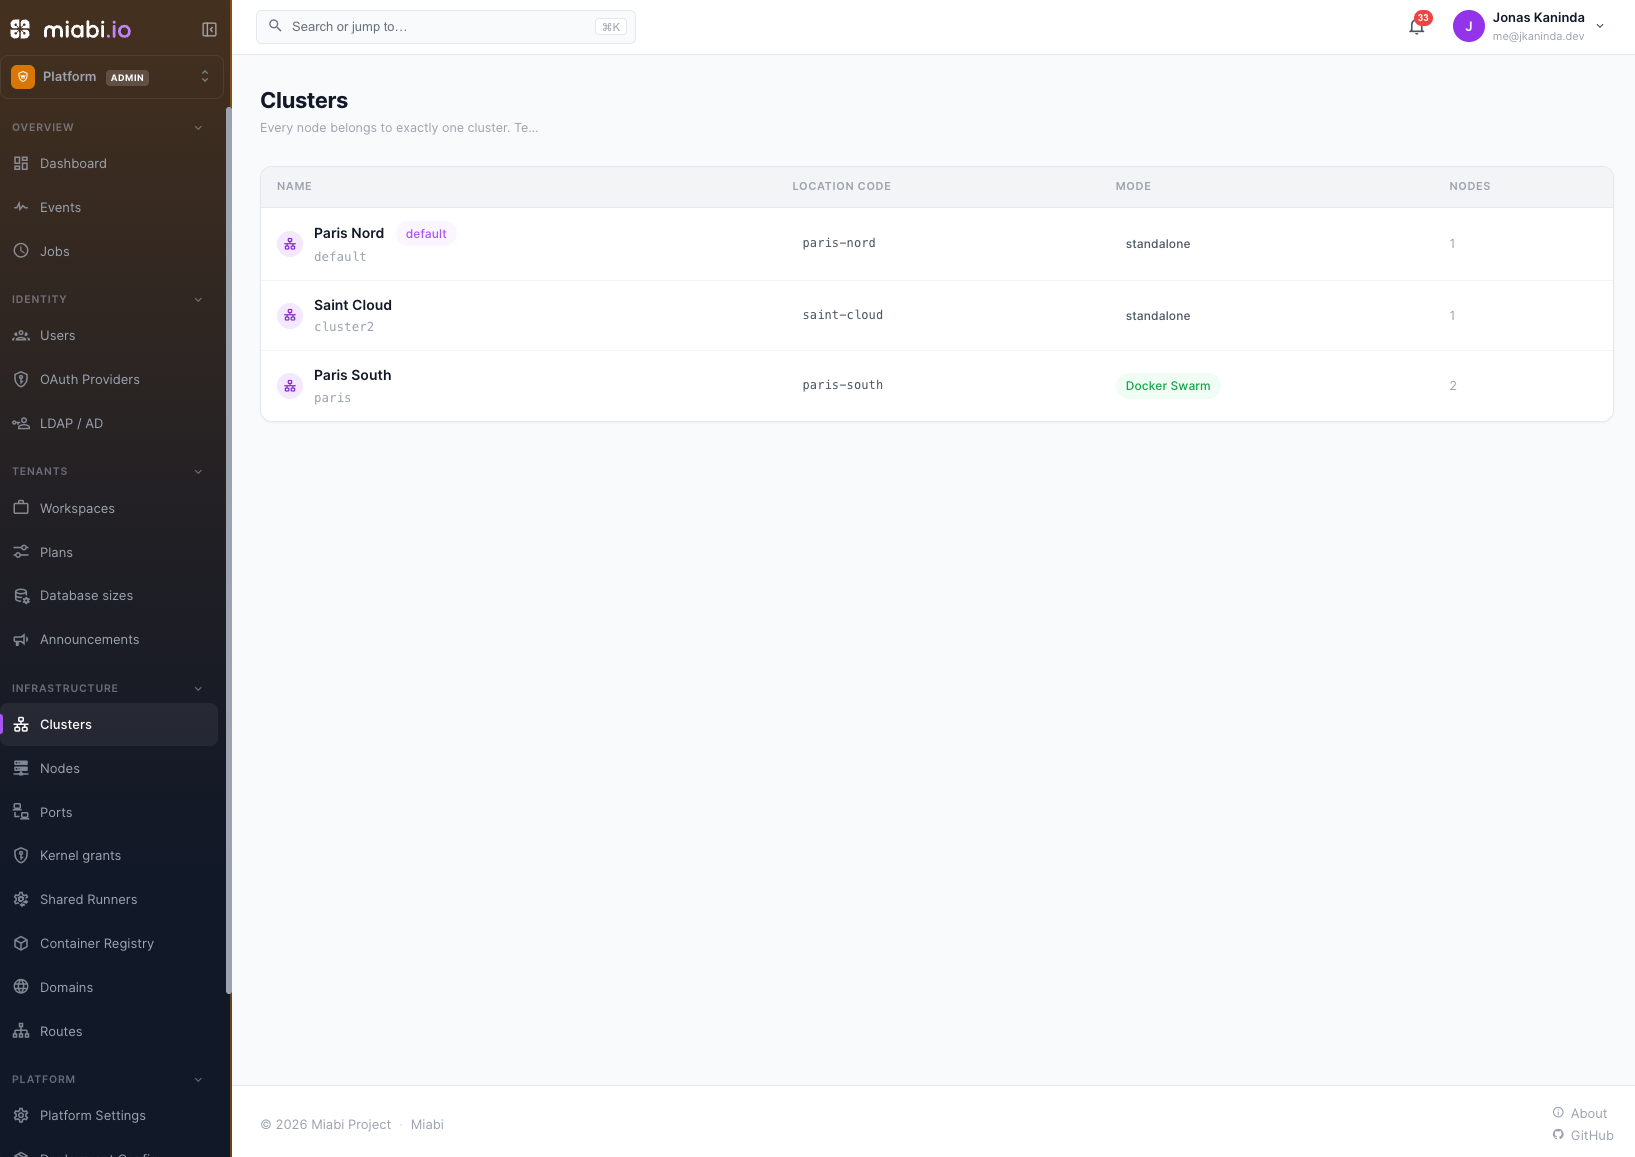
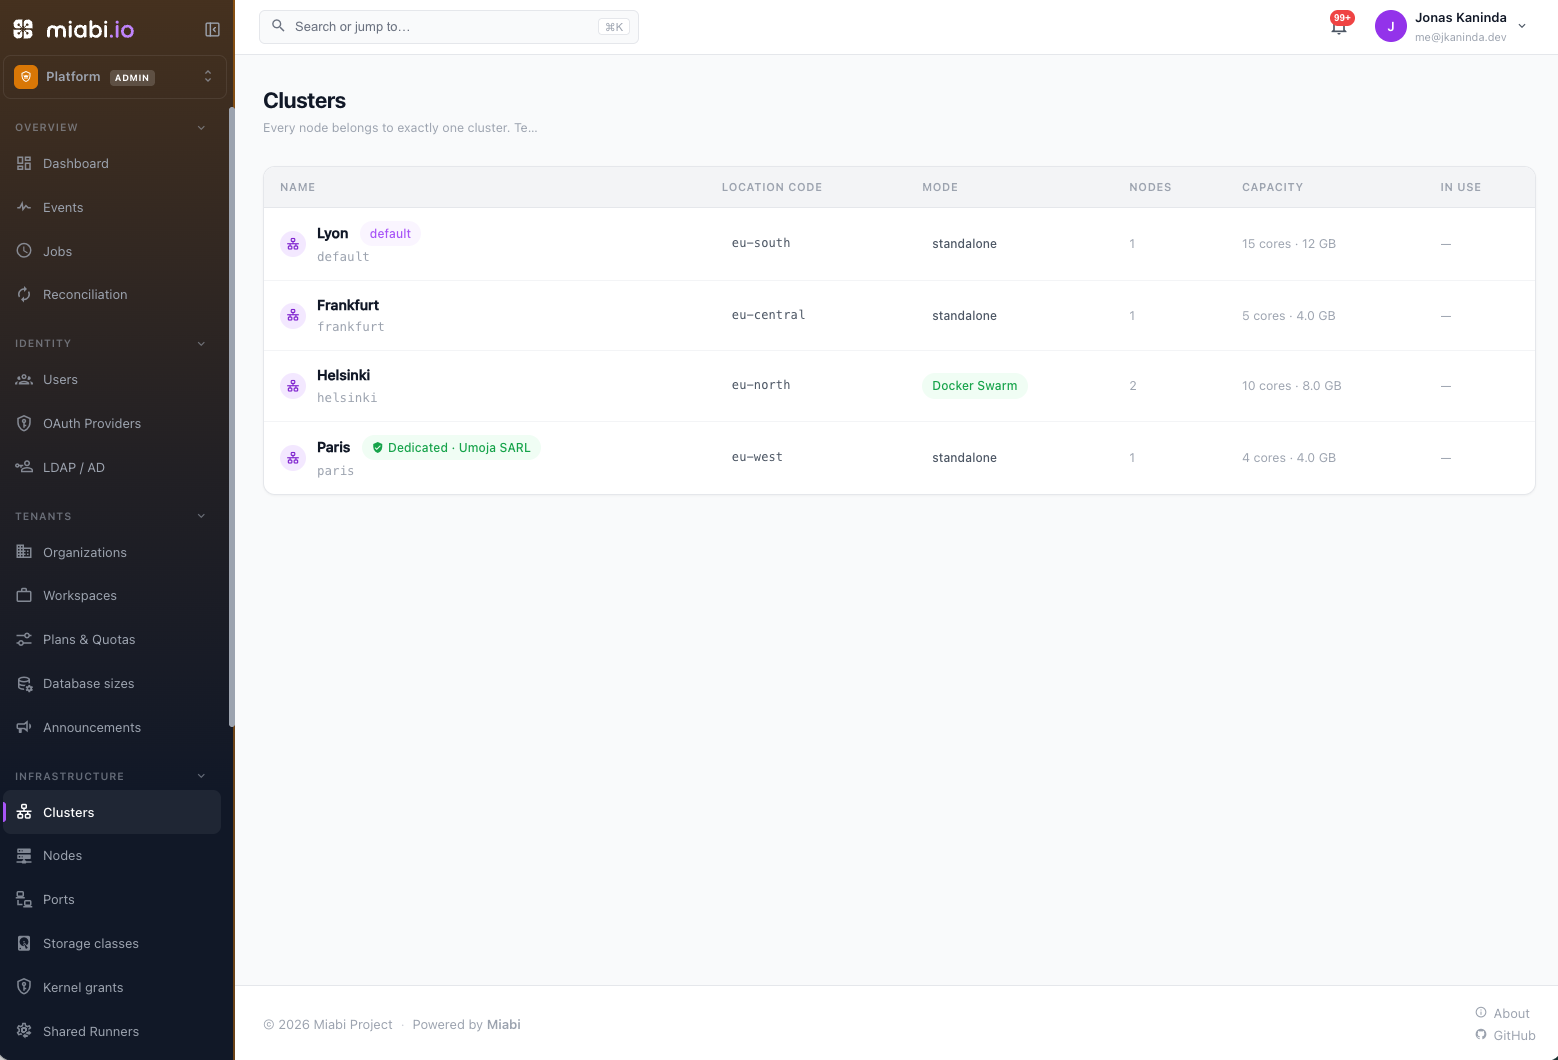
document organization, storage classes  and update screenshot images

diff --git a/docs/workspaces/organizations.md b/docs/workspaces/organizations.md
@@ -1,54 +1,170 @@
 ---
 sidebar_position: 3
 title: Organizations
-description: The single built-in organization — Miabi's identity realm for SSO, SAML, and SCIM.
+description: Tenant realms that own workspaces, users and locations — with an owner, a workspace cap, and their own SSO.
 ---
 
 # Organizations
 
-:::info Not a multi-workspace grouping feature — yet
-Miabi seeds **one built-in `default` organization** that every workspace belongs to. You cannot
-create organizations, and you cannot group workspaces under separate ones. The only organization
-endpoints are `GET` and `PUT /api/v1/admin/organization` (platform admin), which read the default
-organization and toggle its enforced-SSO policy.
+An organization is a **tenant realm**. It owns workspaces, the user accounts that belong to them,
+and — on Enterprise — the locations their workloads run on. Where a workspace is the isolation
+boundary for one project's apps and data, an organization is the boundary for a *customer*: the
+people, their workspaces, their hardware, and the identity provider they sign in through.
+
+Every install has one. Community keeps the single built-in `default` organization it has always
+had, and every workspace and user belongs to it. **Creating a second organization is an
+[Enterprise](/docs/editions/community-vs-enterprise) feature** — it is the point at which one Miabi
+instance starts serving more than one customer.
+
+![The organizations list](/img/screenshots/admin-organizations.png)
+
+## When you need one
+
+You do not need organizations to separate projects, environments, or teams — use
+[workspaces](/docs/workspaces/overview), which already isolate data, secrets, networking and
+members. Reach for an organization when the tenants are **different customers**, and one of these
+is true:
+
+- They sign in through **their own SSO provider**, and accounts from it must never land in someone
+  else's realm.
+- They are capped: this customer may create **at most five workspaces**.
+- They run on **their own nodes** — hardware nobody else shares.
+- Someone is **accountable** for them, and you want that recorded rather than remembered.
+
+## Creating one
+
+**Platform admin → Tenants → Organizations → New organization.**
+
+| Field | Meaning |
+|---|---|
+| **Display name** | The label shown throughout the console. Free text, editable at any time. |
+| **Handle** | The URL-safe identifier, e.g. `acme`. Derived from the display name if you leave it blank, lowercase letters, digits and hyphens. |
+| **Owner** | The user accountable for the organization. Optional here — see [Ownership](#ownership). |
+| **Workspace cap** | How many workspaces the organization may hold. Unlimited by default; `0` allows none. |
+
+The handle is **immutable** after creation: it is what admins and the API address the organization
+by. Rename the display name instead.
+
+![An organization's detail page](/img/screenshots/admin-organization-detail.png)
+
+## Ownership
+
+Every organization has an **owner** — the user accountable for it. The owner is recorded on the
+organization, shown on its detail page, and set in one of three ways:
+
+1. **Named when you create it.** An admin picks the owner in the New organization form, or later in
+   **Settings**. This is the explicit case, and it always wins.
+2. **Adopted by the first user.** An organization created without an owner takes the first user who
+   joins it — including one provisioned by SSO. This fills a gap so that a realm is never
+   accountable to nobody; it never overrides an owner an admin named, and once taken it does not
+   move when a second user arrives.
+3. **The default organization takes the first platform admin.** It is seeded before any user
+   exists, so it cannot take an owner at creation the way a later one can.
+
+:::note
+Deleting a user **releases** the organizations they owned, which then show no owner until an admin
+names one or a new user adopts them. An organization is never left pointing at an account that no
+longer exists.
 :::
 
-Today an organization is an **identity realm**, not a folder. It owns the account-wide identity
-configuration:
+Ownership here is **accountability, not permission**. It records who answers for the tenant; it
+grants nothing on its own. What a person may do is still decided by their
+[platform-admin status and per-workspace role](/docs/workspaces/roles-and-permissions).
 
-- **SSO / OAuth 2.0 / OIDC** providers — see [SSO](/docs/security/sso).
-- **SAML 2.0** providers and the **enforced-SSO** policy (Enterprise).
-- **LDAP / Active Directory** sign-in (Enterprise).
-- **SCIM 2.0** user provisioning (Enterprise).
+## Signing in: attaching an SSO provider
 
-Workspaces carry a nullable organization reference so that multi-organization support can arrive
-later without a destructive migration. Until it does, use **workspaces** to model environments,
-teams, and clients — each keeps its strict
-[multi-tenant isolation](/docs/workspaces/overview#multi-tenant-isolation).
+An [OAuth 2.0 / OIDC provider](/docs/security/sso) can be attached to an organization. Every account
+**registered through that provider** then belongs to it, with no per-user step: the customer's
+people sign in with the customer's identity provider and land in the customer's realm.
 
-![The organizations view listing member workspaces](/img/screenshots/organizations.png)
+![The organization field on an SSO provider](/img/screenshots/admin-oauth-provider-organization.png)
+
+Two rules make this safe to rely on:
+
+- **Only registration decides a realm.** Signing in through a provider never moves an account that
+  already exists. Somebody who already belongs to one organization stays there, whichever provider
+  they authenticate with.
+- **A provider's organization is set once**, when the provider is created. Because existing accounts
+  are never moved, changing it later would only split that provider's users across two realms — so
+  the field is read-only afterwards.
+
+A provider with no organization registers into the default one, which is how every install behaved
+before providers could be attached at all.
+
+:::tip
+Pair this with the organization's **enforced-SSO** policy (Enterprise) to require that its people
+sign in through the provider rather than with a local password.
+:::
+
+## Where its workloads run
+
+An organization can be given a **default location** — the [cluster](/docs/nodes/cluster-mode#locations) its new
+workspaces place resources in when they name none.
+
+Beyond that, a cluster can be **dedicated** to an organization. A dedicated location is seen only by
+that organization, and nothing outside it can be placed there — not even by a platform admin. In
+return, an organization that owns any location is **confined** to the ones it owns, so its workloads
+never land on shared hardware.
+
+![Locations dedicated to an organization](/img/screenshots/admin-organization-dedicated-locations.png)
+
+Dedicating a location is done from the location itself: **Platform admin → Infrastructure →
+Clusters → *cluster* → Belongs to → Change**. It is refused while the location still runs another
+organization's workloads — they would keep running somewhere their own workspace could no longer
+see, scale, or place beside. Move or delete them first.
+
+See [Cluster mode](/docs/nodes/cluster-mode#locations) for what a location is, and
+[Plans & Quotas](/docs/workspaces/plans-and-quotas) for how placement policy interacts with plans.
 
 ## Structure
 
 ```
-Organization: default        (identity realm — SSO / SAML / SCIM)
-├── Workspace: production
+Organization: acme            (tenant realm — owner, cap, SSO, locations)
+├── Users                     (registered through Acme's SSO provider)
+├── Workspace: acme-prod
 │   ├── Applications
 │   ├── Databases
 │   └── Members
-├── Workspace: staging
-└── Workspace: client-acme
+└── Workspace: acme-staging
+
+Organization: default         (every install has one)
+└── Workspace: internal-tools
 ```
 
-Members are assigned at the **workspace** level, each with one of the four roles. The organization
-carries identity configuration only; it does not change the per-workspace
-[role enforcement](/docs/workspaces/roles-and-permissions).
+Members are assigned at the **workspace** level, each with one of the four roles. An organization
+groups workspaces and accounts; it does not change the per-workspace
+[role enforcement](/docs/workspaces/roles-and-permissions), and it is not a permission scope.
 
 :::note
-Plans and quotas are applied **per workspace**. See [Plans & Quotas](/docs/workspaces/plans-and-quotas) for how limits and capability gates work.
+Plans and quotas are applied **per workspace**, not per organization. The organization's own limit is
+the workspace cap. See [Plans & Quotas](/docs/workspaces/plans-and-quotas).
 :::
+
+## Deleting one
+
+**Platform admin → Tenants → Organizations → *organization* → Delete.**
+
+An organization must be **empty** first — no workspaces, no users. A delete that still held them is
+refused rather than silently orphaning them: move them to another realm deliberately. Any locations
+dedicated to it are released back to shared, since a location owned by an organization that no
+longer exists would be visible to nobody.
+
+The **default organization cannot be deleted**. If you want a different one to be the fallback that
+new workspaces, users and providers attach to, promote it with **Make default** first.
+
+## Multi-tenant isolation
+
+An organization does not replace [workspace isolation](/docs/workspaces/overview#multi-tenant-isolation)
+— it stacks on top of it. Data, secrets, networks and members are still scoped per workspace and
+enforced by `workspace_id`, whether two workspaces belong to the same organization or not.
+
+What the organization adds is the tenant boundary above that: who the workspaces belong to, which
+identity provider creates their accounts, and — when you dedicate a location — which machines their
+containers are allowed to run on.
 
 ## Next steps
 
 - Manage who belongs to each workspace in [Members & Invitations](/docs/workspaces/members-and-invitations).
 - Review what each role can do in [Roles & Permissions](/docs/workspaces/roles-and-permissions).
+- Attach an identity provider in [SSO](/docs/security/sso).
+- Give a tenant its own hardware in [Cluster mode](/docs/nodes/cluster-mode#locations).

diff --git a/docs/editions/community-vs-enterprise.md b/docs/editions/community-vs-enterprise.md
@@ -36,6 +36,7 @@ If you want a build with **zero enterprise code** (the deny-all stub), build it 
 | Registry S3/MinIO storage | — | ✓ |
 | Volumes on the built-in `default` storage class | ✓ | ✓ |
 | [Storage classes](/docs/storage/storage-classes) — volumes on the disks you mount (bare metal, dedicated hosts) | — | ✓ |
+| [Organizations](/docs/workspaces/organizations) — tenant realms owning workspaces, users, their own SSO and their own locations | the built-in `default` one | ✓ create more |
 | OAuth/OIDC SSO providers | one | multiple |
 | Hide an SSO provider from the login page | — | ✓ |
 | SAML 2.0 + enforced SSO · SCIM 2.0 provisioning | — | ✓ |
@@ -73,7 +74,7 @@ The Community edition includes the entire core platform — deploying apps, cust
 :::
 
 :::note
-Enterprise is about identity, governance, hardware, and scale: multiple and hidden SSO providers with SAML, LDAP and SCIM, custom roles and per-resource policies, the audit log viewer with export and SIEM streaming, quota and per-user limit overrides, advanced multi-cluster placement and database sizes, announcements, platform backup, S3/MinIO storage for the container registry, a private template registry and image mirror, an unlimited shared runner pool, white-label branding, a restricted security profile, and [advanced canary control](/docs/applications/canary-deployments#manual-mode). It is also what puts tenant data on hardware you chose: [storage classes](/docs/storage/storage-classes) for the disks you mount on a bare-metal or dedicated host, and [recovery points](/docs/storage/backups#recovery-points) that back up a whole database instance as one set. A commercial license also comes with [Enterprise support](https://miabi.io/support) — commercial support and SLAs, direct to the maintainers. A license can also set explicit node and plan caps; see [Licensing](/docs/editions/licensing#limits).
+Enterprise is about identity, governance, hardware, and scale: [organizations](/docs/workspaces/organizations) that turn one instance into several tenants, multiple and hidden SSO providers with SAML, LDAP and SCIM, custom roles and per-resource policies, the audit log viewer with export and SIEM streaming, quota and per-user limit overrides, advanced multi-cluster placement and database sizes, announcements, platform backup, S3/MinIO storage for the container registry, a private template registry and image mirror, an unlimited shared runner pool, white-label branding, a restricted security profile, and [advanced canary control](/docs/applications/canary-deployments#manual-mode). It is also what puts tenant data on hardware you chose: [storage classes](/docs/storage/storage-classes) for the disks you mount on a bare-metal or dedicated host, and [recovery points](/docs/storage/backups#recovery-points) that back up a whole database instance as one set. A commercial license also comes with [Enterprise support](https://miabi.io/support) — commercial support and SLAs, direct to the maintainers. A license can also set explicit node and plan caps; see [Licensing](/docs/editions/licensing#limits).
 :::
 
 ## Where to go next

diff --git a/docs/administration/platform-admin.md b/docs/administration/platform-admin.md
@@ -8,7 +8,7 @@ description: Who the platform admin is, the first-user rule, and what they manag
 
 The **platform admin** (super-admin) is the account responsible for the Miabi instance as a whole — the parts of the system that sit *above* any single workspace.
 
-![Platform admin console](/img/screenshots/platform-admin.png)
+![The platform admin dashboard](/img/screenshots/admin-dashboard.png)
 
 ## How the platform admin is created
 
@@ -67,6 +67,7 @@ dashboard. The sidebar is grouped as below, and this table is the map.
 
 | Section | Responsibility |
 |---|---|
+| **Organizations** | Tenant realms owning workspaces, users, their own SSO and their own locations (Enterprise beyond the built-in one). See [Organizations](/docs/workspaces/organizations). |
 | **Workspaces** | Cross-workspace visibility, privileged workspaces, and key rotation. See [Workspace Oversight](/docs/administration/workspace-oversight). |
 | **Plans** | Define what a workspace may consume and which capabilities it unlocks. See [Plans & Quotas](/docs/workspaces/plans-and-quotas). |
 | **Database sizes** | Named CPU and memory sizes plans offer (Enterprise). See [Database sizes](/docs/workspaces/plans-and-quotas#database-sizes). |
@@ -79,9 +80,15 @@ dashboard. The sidebar is grouped as below, and this table is the map.
 | **Clusters** | Standalone and swarm clusters, the locations workspaces deploy to. See [Cluster Mode](/docs/nodes/cluster-mode). |
 | **Nodes** | The fleet: status, health, pools, container inventory, housekeeping and Docker import. See [Nodes & Capacity](/docs/administration/nodes-and-capacity). |
 | **Ports** | Every host port on every node, and the host-port approval queue. See [Workspace Oversight](/docs/administration/workspace-oversight#moderating-host-ports). |
+| **Storage classes** | The disks volumes may be created on, beyond Docker's own data root (Enterprise). See [Storage classes](/docs/storage/storage-classes). |
 | **Kernel grants** | Every application holding an extra Linux capability or host device. See [Capabilities & devices](/docs/applications/capabilities-and-devices). |
 | **Shared Runners** | The platform-shared build machines pipelines execute on. See [Runners](/docs/cicd/runners). |
 | **Container Registry** | The built-in multi-tenant OCI registry. See [Registry administration](/docs/registry/administration). |
+
+### Networking
+
+| Section | Responsibility |
+|---|---|
 | **Domains** | Verify, force-verify or ban a domain in any workspace. See [Workspace Oversight](/docs/administration/workspace-oversight#moderating-domains). |
 | **Routes** | Every route on the instance. See [Workspace Oversight](/docs/administration/workspace-oversight#moderating-routes). |
 

diff --git a/docs/security/sso.md b/docs/security/sso.md
@@ -28,7 +28,9 @@ built-in option nor through the generic OIDC path.
 4. For generic OIDC, supply the **Issuer** (the OIDC discovery base URL, e.g. `https://id.example.com`) so Miabi can read the provider's endpoints. You can override the auth, token and userinfo URLs, the email/name/username claims, and the scopes.
 5. Register Miabi's callback URL with your provider. It isn't shown in the form: it is `https://<your-miabi-host>/api/v1/auth/oauth/<name>/callback`, where `<name>` is the provider's **Name**.
 6. Optionally restrict **Allowed domains**, and set **Auto-join workspace** so new SSO users join a workspace with a chosen role.
-7. Make sure **Enabled** is checked, then save. There is no connection test, so try signing in.
+7. Optionally pick an **Organization**. Accounts registered through this provider then belong to that
+   [tenant realm](/docs/workspaces/organizations) — see [Which organization SSO users land in](#which-organization-sso-users-land-in).
+8. Make sure **Enabled** is checked, then save. There is no connection test, so try signing in.
 
 The client secret is treated as a secret and is [encrypted at rest](/docs/security/encryption).
 
@@ -39,6 +41,20 @@ Once a provider is configured, users see a **Sign in with…** button on the log
 :::note
 SSO governs how users sign in. Their permissions inside a workspace are still determined by their [role](/docs/workspaces/roles-and-permissions).
 :::
+
+## Which organization SSO users land in
+
+An account created through a provider belongs to the provider's
+[organization](/docs/workspaces/organizations), so a customer's people sign in with the customer's
+identity provider and land in the customer's realm. A provider with no organization registers into
+the default one.
+
+- **Only registration decides a realm.** Signing in never moves an account that already exists — a
+  person who already belongs to one organization stays there, whichever provider they authenticate
+  with.
+- **A provider's organization is set once**, when it is created, and is read-only afterwards.
+  Changing it would only split that provider's users across two realms, since the ones already
+  registered do not move.
 
 ## Community vs Enterprise
 

diff --git a/docs/storage/storage-classes.md b/docs/storage/storage-classes.md
@@ -40,6 +40,9 @@ changes, and the storage-class field never appears in the volume form.
 1. Mount the disk on the node — via `/etc/fstab` or a systemd mount — and create the directory
    Miabi will own, for example `mkdir -p /mnt/ssd1/miabi`.
 2. Go to **Admin → Infrastructure → Storage classes** and select **New storage class**.
+
+   ![Storage classes registered on a node](/img/screenshots/admin-storage-classes.png)
+
 3. Fill in:
 
 | Field | Meaning |
@@ -108,6 +111,23 @@ Delete it and apply again, or migrate it
 
 That is deliberate. Converging it would mean deleting and recreating the volume — destroying data
 from a `git push`.
+
+## Choosing a class for a database
+
+A managed database keeps its data in a volume too, and it lands on a class the same way. When more
+than one is available, the **Create database** form shows the same **Storage** field; leave it alone
+and the data goes to the plan's default class, then the node's. An instance's class is shown on its
+detail page beside the data volume.
+
+It is fixed at creation, for the same reason a volume's is: the data is already on that disk, and
+changing the field would have to move it. To put an existing database on another disk, take a
+[backup](/docs/storage/backups), create a new instance on the class you want, and restore into it.
+
+:::note
+A database declared in a [manifest](/docs/cicd/manifest-reference) always uses the workspace's
+default class — `storageClass` is a volume field, not a database one. Choose the class in the
+console or the API when a database needs a specific disk.
+:::
 
 ## Per-plan storage classes
 

diff --git a/docs/concepts/web-console.md b/docs/concepts/web-console.md
@@ -33,10 +33,18 @@ nothing extra to deploy.
 
 Platform administration is a **separate console** with its own sidebar, not a section appended to
 the workspace menu. A platform admin enters it from the workspace switcher → **Platform admin**, and
-leaves it the same way. Its sections are **Overview** (dashboard, events, jobs, reconciliation),
-**Identity**, **Tenants**, **Infrastructure** (clusters, nodes, ports, kernel grants, shared runners,
-registry, domains, routes), **Platform** (settings, branding, deployment config, platform backup) and
-**Enterprise**. See [Platform Admin](/docs/administration/platform-admin).
+leaves it the same way.
+
+![The platform admin dashboard](/img/screenshots/admin-dashboard.png)
+
+It opens on a dashboard of instance health: an overall status with the reasons behind it, nodes and
+clusters, workers, the control plane's own memory and goroutines, an inventory of everything on the
+instance, and recent activity. Its sections are **Overview** (dashboard, events, jobs,
+reconciliation), **Identity**, **Tenants** (organizations, workspaces, plans, database sizes,
+announcements), **Infrastructure** (clusters, nodes, ports, storage classes, kernel grants, shared
+runners, registry), **Networking** (domains, routes), **Platform** (settings, branding, deployment
+config, platform backup) and **Enterprise**. See
+[Platform Admin](/docs/administration/platform-admin).
 
 ## Search and jump
 
